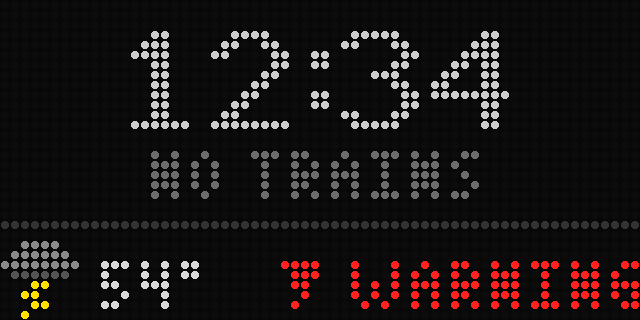
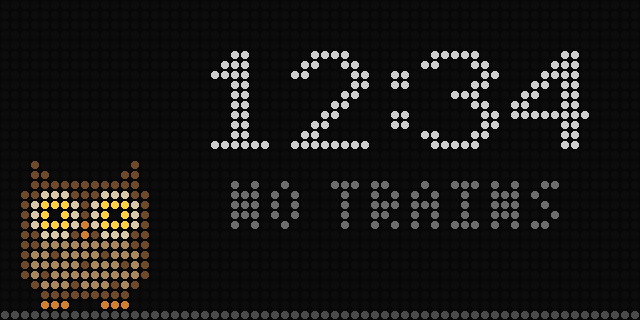
Overnight owl on the no-trains screen
The transit screen's no-trains state (overnight, NO DATA) gets a 13x15
pixel-art owl perched on a solid line at the left, with the big clock and
label centered in x 16-63. On the S3 it blinks and glances on the icon
clock; the player redraws only when its frame changes. The frozen M4 keeps
the plain clock (overnight scenarios are s3only).

Claude-Session: https://claude.ai/code/session_01G1nRWyVJHjQjigJg6skPia

diff --git a/server/board/draw.js b/server/board/draw.js
@@ -207,7 +207,7 @@
       label: '#d8d8d8', clock: '#cccccc', radarTime: '#7a7a7a', radarAmpm: '#8f8f8f', radarSub: '#666666', wxText: '#8f8f8f', amber: '#ffb000', dimAmber: '#664600', dimAmber2: '#332300',
       sch: '#6a6a6a', schDim: '#2e2e2e', schDim2: '#151515', grey: '#8f8f8f', divider: '#333333',
       head: '#808080', dimHead: '#555555', index: '#2d2d2d', white: '#ffffff', red: '#ff2020',
-      watch: '#ffd800', warnSevere: '#ff8000', warnTornado: '#ff2020', noTrains: '#6c6c6c', indicator: '#3a3a3a',
+      watch: '#ffd800', warnSevere: '#ff8000', warnTornado: '#ff2020', noTrains: '#6c6c6c', indicator: '#3a3a3a', perch: '#4a4a4a',
     };
 
     const TIME_GAP = 3;   // px between arrival times...
@@ -328,6 +328,8 @@
     const rollText = (f, font, name, text, xOf, base, color) => rollTextWith(f, font, takeRoll(name, text), text, xOf, base, color);
     const rightAt = (font, right) => (str) => right - measure(font, str) + 1;
     const centerX = (font) => (str) => Math.floor((64 - measure(font, str)) / 2);
+    // Centered in columns x0-63.
+    const centerIn = (font, x0) => (str) => x0 + Math.floor((64 - x0 - measure(font, str)) / 2);
 
     // Station name + clock on rows 1-5, flush to the screen edges, both in
     // `color` (the transit screen's dark grey, or the ticker's header grey).
@@ -524,14 +526,34 @@
       }
     }
 
+    // Overnight owl (icons.js OWL): its frame at icon-clock ms t, or the
+    // static owl (frame 0) without a clock.
+    function owlRows(t) {
+      const fr = icons.OWL.frames;
+      if (t == null) return fr[0][1];
+      const total = fr.reduce((a, [ms]) => a + ms, 0);
+      let k = ((Math.floor(t) % total) + total) % total;
+      for (const [ms, rows] of fr) { if (k < ms) return rows; k -= ms; }
+      return fr[0][1];
+    }
+
+    // No trains: the owl on a line along row 31 (or row 25 above the weather
+    // strip), at the left; the big clock and NO TRAINS centered in x 16-63.
+    // The owl blinks and glances on the S3's icon clock.
+    const OWL_X = 2, OWL_PANEL = 16;
     function drawOvernight(f, p, now) {
       const clock = clockText(now);
       const nt = p.stale ? 'NO DATA' : 'NO TRAINS';
-      const blockH = 10 + 3 + 5; // 10px digits, gap, label
-      const areaH = p.wx ? 26 : 32;
-      const top = Math.floor((areaH - blockH) / 2);
-      rollText(f, 'clock', 'big.clock', clock, centerX('clock'), top + 10, C.clock);
-      f.text('small', nt, Math.floor((64 - measure('small', nt)) / 2), top + 18, C.noTrains);
+      const bottom = p.wx ? 25 : 31;
+      f.fill(0, bottom, 64, 1, C.perch);
+      const rows = owlRows(ICON_T);
+      const oy = bottom - rows.length;
+      rows.forEach((row, j) => [...row].forEach((c, i) => {
+        if (c !== '.') f.fill(OWL_X + i, oy + j, 1, 1, icons.OWL.palette[c]);
+      }));
+      const top = p.wx ? 3 : 5;
+      rollText(f, 'clock', 'big.clock', clock, centerIn('clock', OWL_PANEL), top + 10, C.clock);
+      f.text('small', nt, centerIn('small', OWL_PANEL)(nt), top + 18, C.noTrains);
     }
 
     // Stale train data (the server hasn't reached Train Tracker for a while):

diff --git a/firmware/tests/scenarios.js b/firmware/tests/scenarios.js
@@ -137,10 +137,15 @@ async function build() {
   }
   // Overnight.
   const night = { ...payloadFrom('morse-2026-10-03-2316.json', 'MORSE'), rows: [], ticker: [] };
-  add('overnight', night, [{ screen: 'transit' }]);
-  add('overnight weather', { ...night, wx: WX }, [{ screen: 'transit' }]);
-  add('no data', { ...night, stale: 1 }, [{ screen: 'transit' }]);
-  add('no data weather', { ...night, stale: 1, wx: WX }, [{ screen: 'transit' }]);
+  // The overnight owl came after the freeze (the M4 keeps the plain clock).
+  const owl = { s3only: true };
+  add('overnight', night, [{ screen: 'transit' }], undefined, undefined, owl);
+  add('overnight weather', { ...night, wx: WX }, [{ screen: 'transit' }], undefined, undefined, owl);
+  add('no data', { ...night, stale: 1 }, [{ screen: 'transit' }], undefined, undefined, owl);
+  add('no data weather', { ...night, stale: 1, wx: WX }, [{ screen: 'transit' }], undefined, undefined, owl);
+  // The owl's frames on the icon clock (open, blink, glance; wraps around).
+  add('overnight owl frames', night, [0, 4050, 7300, 9000, 11400, 15000].map((iconT) => ({ screen: 'transit', iconT })), undefined, undefined, owl);
+  add('overnight owl frames no data', { ...night, stale: 1, wx: WX }, [4050, 7300].map((iconT) => ({ screen: 'transit', iconT })), undefined, undefined, owl);
   add('stale', { ...payloadFrom('morse-2026-10-03-2316.json', 'MORSE'), stale: 1 }, [{ screen: 'transit' }, { screen: 'ticker' }, { screen: 'ticker', page: 1, slide: 0.5 }]);
   // Rolls via explicit roll state are covered by the animator sequences below.
 
@@ -177,7 +182,7 @@ async function build() {
     add('rolls header clock width change', hdr, nums({ 'hdr.clock': '12:59' }).map((n) => ({ screen: 'transit', nums: n })));
     add('rolls ticker header clock', hdr, nums({ 'hdr.clock': '11:15' }).map((n) => ({ screen: 'ticker', nums: n })));
     const nt = { ...payloadFrom('morse-2026-10-03-2316.json', 'MORSE'), rows: [], ticker: [], wx: WX };
-    add('rolls overnight clock stays still', nt, nums({ 'night.clock': '11:15' }).map((n) => ({ screen: 'transit', nums: n })));
+    add('rolls overnight clock stays still', nt, nums({ 'night.clock': '11:15' }).map((n) => ({ screen: 'transit', nums: n })), undefined, undefined, { s3only: true });
     const [key, { bytes, loc }] = Object.entries(rf)[0];
     const rt = radar.timeOf(key.split('-')[1]);
     const ids = ['a', 'b', 'c'];

diff --git a/server/board/icons.js b/server/board/icons.js
@@ -208,6 +208,43 @@ const ICON_ANIM = {
   fog: [[1200, I.fog], [1200, shiftRows(shiftRows(I.fog, 1, 1, 1), 5, 5, 1)]],
 };
 
+// Overnight owl (transit screen, no trains; CTA calls its overnight service
+// Owl): 13 x 15, perched on a line left of the big clock. Frames as in
+// ICON_ANIM, frame 0 the static owl; it mostly sits still, blinks now and
+// then, and glances right once a cycle. No hard on/off rhythm, since a 1 s
+// blink means a tornado warning. Pupils are unlit.
+const OWL_PALETTE = {
+  B: '#6e4a2a', // body
+  b: '#a8875c', // chest
+  W: '#d8c8a8', // face disc
+  Y: '#ffd040', // eyes
+  O: '#d08030', // beak, feet
+};
+const OWL_OPEN = [
+  '.B.........B.',
+  '.BB.......BB.',
+  '.BBBBBBBBBBB.',
+  'BBWWWBBBWWWBB',
+  'BWYYYWBWYYYWB',
+  'BWY.YWBWY.YWB',
+  'BWYYYWOWYYYWB',
+  'BBWWWBOBWWWBB',
+  'BBbbbbbbbbbBB',
+  'BbbBbbbbBbbbB',
+  'BbbbbbBbbbBbB',
+  'BbBbbbbbbbbbB',
+  '.BbbbBbbbBbB.',
+  '..BBBBBBBBB..',
+  '..OOO...OOO..',
+];
+const owlEyes = (r4, r5, r6) => OWL_OPEN.map((r, j) => (j === 4 ? r4 : j === 5 ? r5 : j === 6 ? r6 : r));
+const OWL_BLINK = owlEyes('BWBBBWBWBBBWB', 'BWWWWWBWWWWWB', 'BWBBBWOWBBBWB');
+const OWL_LOOK = owlEyes('BWYYYWBWYYYWB', 'BWYY.WBWYY.WB', 'BWYYYWOWYYYWB');
+const OWL = {
+  palette: OWL_PALETTE,
+  frames: [[4000, OWL_OPEN], [150, OWL_BLINK], [3000, OWL_OPEN], [1600, OWL_LOOK], [300, OWL_OPEN], [150, OWL_BLINK], [2200, OWL_OPEN]],
+};
+
 // Frozen M4 only (firmware/boardlib/draw.py): a CTA alert's 1px "!" over the
 // row's 3x5 block at 20%, in the line color. draw.js and the S3 show the
 // label and the red alert circle instead.
@@ -241,4 +278,4 @@ function drawIcon(frame, name, x, y) {
   }));
 }
 
-module.exports = { ICONS, PALETTE, ALERT_BANG, ICON_ANIM, iconForCode, drawIcon };
+module.exports = { ICONS, PALETTE, ALERT_BANG, ICON_ANIM, OWL, iconForCode, drawIcon };

diff --git a/scripts/build-firmware-assets.js b/scripts/build-firmware-assets.js
@@ -116,6 +116,18 @@ function buildCpp() {
     }
   }
   lines.push('};', `static const int ICON_FRAMES_N = ${nFrames};`, '');
+  // Overnight owl (icons.js OWL): its palette and frames (13 x 15, row by
+  // row), with how long each shows (ms). S3 only.
+  lines.push('static const IconColor OWL_PALETTE[] = {');
+  for (const [k, v] of Object.entries(icons.OWL.palette)) lines.push(`  {'${k}', ${parseInt(v.slice(1, 3), 16)}, ${parseInt(v.slice(3, 5), 16)}, ${parseInt(v.slice(5, 7), 16)}},`);
+  lines.push('};', `static const int OWL_PALETTE_N = ${Object.keys(icons.OWL.palette).length};`);
+  const ow = icons.OWL.frames[0][1][0].length, oh = icons.OWL.frames[0][1].length;
+  lines.push(`static const int OWL_W = ${ow}, OWL_H = ${oh};`, 'struct OwlFrame { uint16_t ms; const char *px; };', 'static const OwlFrame OWL_FRAMES[] = {');
+  for (const [ms, rows] of icons.OWL.frames) {
+    if (rows.length !== oh || rows.some((r) => r.length !== ow)) throw new Error(`owl frame is not ${ow} x ${oh}`);
+    lines.push(`  {${ms}, "${rows.join('')}"},`);
+  }
+  lines.push('};', `static const int OWL_FRAMES_N = ${icons.OWL.frames.length};`, '');
   lines.push(`static const char *const ALERT_BANG[] = {${icons.ALERT_BANG.map((r) => `"${r}"`).join(', ')}};`);
   lines.push(`static const int ALERT_BANG_N = ${icons.ALERT_BANG.length};`, '');
   // G_ prefix: the ESP32's headers define MIN/MAX macros.

diff --git a/scripts/preview-fonts.js b/scripts/preview-fonts.js
@@ -179,15 +179,10 @@ function transitRows(f, rows, tops) {
   save('mock-ticker.png', f, 10);
 }
 
-// Overnight clock with the weather row.
+// Overnight: the owl beside the clock (drawn by draw.js, the reference).
 {
-  const f = new Frame();
-  const clock = '12:34';
-  const w = measure('clock', clock);
-  f.text('clock', clock, Math.floor((64 - w) / 2), 13, C.clock);
-  const nt = 'NO TRAINS';
-  f.text('small', nt, Math.floor((64 - measure('small', nt)) / 2), 20, dim(C.label, 0.5));
-  drawWeatherRow(f, 'storm', '54\u00b0', [G.FUNNEL, 'WARNING', C.red]);
+  const now = Date.UTC(2026, 9, 4, 5, 34) / 1000;
+  const f = require('../server/board/render').render({ v: 1, now, tzo: -18000, screen: 'transit', bright: 100, rows: [], ticker: [] });
   save('mock-overnight.png', f, 10);
 }
 

diff --git a/server/board/render.js b/server/board/render.js
@@ -12,7 +12,7 @@ const { TZ } = require('./time');
 
 const draw = create({
   fonts: packFonts(),
-  icons: { ICONS: icons.ICONS, PALETTE: icons.PALETTE, ALERT_BANG: icons.ALERT_BANG, ICON_ANIM: icons.ICON_ANIM },
+  icons: { ICONS: icons.ICONS, PALETTE: icons.PALETTE, ALERT_BANG: icons.ALERT_BANG, ICON_ANIM: icons.ICON_ANIM, OWL: icons.OWL },
   glyphs,
   tz: TZ,
   makeFrame: () => new Frame(),
@@ -22,7 +22,7 @@ const draw = create({
 function assets() {
   return {
     fonts: packFonts(),
-    icons: { ICONS: icons.ICONS, PALETTE: icons.PALETTE, ALERT_BANG: icons.ALERT_BANG, ICON_ANIM: icons.ICON_ANIM },
+    icons: { ICONS: icons.ICONS, PALETTE: icons.PALETTE, ALERT_BANG: icons.ALERT_BANG, ICON_ANIM: icons.ICON_ANIM, OWL: icons.OWL },
     glyphs,
     tz: TZ,
   };

diff --git a/server/board/sim.html b/server/board/sim.html
@@ -285,7 +285,7 @@
     // Transit: rolls, fades, and slides come from the animator.
     const view = transitAnim.step(p, n, t);
     const blink = Math.floor(t / D.BLINK_MS) % 2 === 1;
-    paintTransit(rolled('transit', t, { full, o: { now: n, blink, view } }));
+    paintTransit(rolled('transit', t, { full, o: { now: n, blink, view, iconT: t } }));
 
     // Ticker: hold each page, then slide up to the next, looping.
     const pages = D.tickerPages(p, n);

diff --git a/firmware-s3/ctaboard/src/draw.cpp b/firmware-s3/ctaboard/src/draw.cpp
@@ -485,7 +485,8 @@ static bool same_shape(Font font, const ustr &a, const ustr &b) {
 // `pos`, or centered on the panel (draw.js xOf: () => x, rightAt, centerX).
 enum Align { LEFT, RIGHT, CENTER };
 static int align_x(Font font, const ustr &s, Align a, int pos) {
-  return a == LEFT ? pos : a == RIGHT ? pos - measure(font, s) + 1 : (int)fdiv(64 - measure(font, s), 2);
+  // CENTER: centered in columns pos-63 (pos 0: the whole panel).
+  return a == LEFT ? pos : a == RIGHT ? pos - measure(font, s) + 1 : pos + (int)fdiv(64 - pos - measure(font, s), 2);
 }
 
 // Text that rolls when it changes. Pixel-identical to rollTextWith() in
@@ -829,14 +830,45 @@ static void draw_view_row(Frame &f, const ViewRow &row, bool lnc) {
   }
 }
 
+// Overnight owl (draw.js owlRows): its frame at icon-clock ms t, or the
+// static owl (frame 0) without a clock.
+int owl_frame(std::optional<double> t) {
+  if (!t) return 0;
+  long long total = 0;
+  for (int i = 0; i < assets::OWL_FRAMES_N; i++) total += assets::OWL_FRAMES[i].ms;
+  long long k = fmod_floor((long long)floor(*t), total);
+  for (int i = 0; i < assets::OWL_FRAMES_N; i++) {
+    if (k < assets::OWL_FRAMES[i].ms) return i;
+    k -= assets::OWL_FRAMES[i].ms;
+  }
+  return 0;
+}
+
+static RGB owl_color(char code) {
+  for (int i = 0; i < assets::OWL_PALETTE_N; i++)
+    if (assets::OWL_PALETTE[i].code == code)
+      return RGB{assets::OWL_PALETTE[i].r, assets::OWL_PALETTE[i].g, assets::OWL_PALETTE[i].b};
+  return RGB{};
+}
+
+// No trains (draw.js drawOvernight): the owl on a line at the left, the
+// big clock and NO TRAINS centered in x 16-63.
+static const int OWL_X = 2, OWL_PANEL = 16;
 static void draw_overnight(Frame &f, const View &view, double now) {
   ustr clock = clock_text(now, view.tzo);
   ustr nt = view.stale ? U"NO DATA" : U"NO TRAINS";
-  int block_h = 10 + 3 + 5;
-  int area_h = view.wx ? 26 : 32;
-  int top = (int)fdiv(area_h - block_h, 2);
-  roll_named(f, FONT_CLOCK, "big.clock", clock, CENTER, 0, top + 10, C::clock);
-  f.text(FONT_SMALL, nt, (int)fdiv(64 - measure(FONT_SMALL, nt), 2), top + 18, C::noTrains);
+  int bottom = view.wx ? 25 : 31;
+  f.fill(0, bottom, 64, 1, C::perch);
+  const char *px = assets::OWL_FRAMES[owl_frame(g_icon_t)].px;
+  int oy = bottom - assets::OWL_H;
+  for (int j = 0; j < assets::OWL_H; j++)
+    for (int i = 0; i < assets::OWL_W; i++) {
+      char c = px[j * assets::OWL_W + i];
+      if (c != '.') f.fill(OWL_X + i, oy + j, 1, 1, owl_color(c));
+    }
+  int top = view.wx ? 3 : 5;
+  roll_named(f, FONT_CLOCK, "big.clock", clock, CENTER, OWL_PANEL, top + 10, C::clock);
+  f.text(FONT_SMALL, nt, align_x(FONT_SMALL, nt, CENTER, OWL_PANEL), top + 18, C::noTrains);
 }
 
 static void draw_stale(Frame &f, const Value &p) {

diff --git a/firmware-s3/ctaboard/src/assets.h b/firmware-s3/ctaboard/src/assets.h
@@ -484,6 +484,27 @@ static const IconFrame ICON_FRAMES[] = {
 };
 static const int ICON_FRAMES_N = 32;
 
+static const IconColor OWL_PALETTE[] = {
+  {'B', 110, 74, 42},
+  {'b', 168, 135, 92},
+  {'W', 216, 200, 168},
+  {'Y', 255, 208, 64},
+  {'O', 208, 128, 48},
+};
+static const int OWL_PALETTE_N = 5;
+static const int OWL_W = 13, OWL_H = 15;
+struct OwlFrame { uint16_t ms; const char *px; };
+static const OwlFrame OWL_FRAMES[] = {
+  {4000, ".B.........B..BB.......BB..BBBBBBBBBBB.BBWWWBBBWWWBBBWYYYWBWYYYWBBWY.YWBWY.YWBBWYYYWOWYYYWBBBWWWBOBWWWBBBBbbbbbbbbbBBBbbBbbbbBbbbBBbbbbbBbbbBbBBbBbbbbbbbbbB.BbbbBbbbBbB...BBBBBBBBB....OOO...OOO.."},
+  {150, ".B.........B..BB.......BB..BBBBBBBBBBB.BBWWWBBBWWWBBBWBBBWBWBBBWBBWWWWWBWWWWWBBWBBBWOWBBBWBBBWWWBOBWWWBBBBbbbbbbbbbBBBbbBbbbbBbbbBBbbbbbBbbbBbBBbBbbbbbbbbbB.BbbbBbbbBbB...BBBBBBBBB....OOO...OOO.."},
+  {3000, ".B.........B..BB.......BB..BBBBBBBBBBB.BBWWWBBBWWWBBBWYYYWBWYYYWBBWY.YWBWY.YWBBWYYYWOWYYYWBBBWWWBOBWWWBBBBbbbbbbbbbBBBbbBbbbbBbbbBBbbbbbBbbbBbBBbBbbbbbbbbbB.BbbbBbbbBbB...BBBBBBBBB....OOO...OOO.."},
+  {1600, ".B.........B..BB.......BB..BBBBBBBBBBB.BBWWWBBBWWWBBBWYYYWBWYYYWBBWYY.WBWYY.WBBWYYYWOWYYYWBBBWWWBOBWWWBBBBbbbbbbbbbBBBbbBbbbbBbbbBBbbbbbBbbbBbBBbBbbbbbbbbbB.BbbbBbbbBbB...BBBBBBBBB....OOO...OOO.."},
+  {300, ".B.........B..BB.......BB..BBBBBBBBBBB.BBWWWBBBWWWBBBWYYYWBWYYYWBBWY.YWBWY.YWBBWYYYWOWYYYWBBBWWWBOBWWWBBBBbbbbbbbbbBBBbbBbbbbBbbbBBbbbbbBbbbBbBBbBbbbbbbbbbB.BbbbBbbbBbB...BBBBBBBBB....OOO...OOO.."},
+  {150, ".B.........B..BB.......BB..BBBBBBBBBBB.BBWWWBBBWWWBBBWBBBWBWBBBWBBWWWWWBWWWWWBBWBBBWOWBBBWBBBWWWBOBWWWBBBBbbbbbbbbbBBBbbBbbbbBbbbBBbbbbbBbbbBbBBbBbbbbbbbbbB.BbbbBbbbBbB...BBBBBBBBB....OOO...OOO.."},
+  {2200, ".B.........B..BB.......BB..BBBBBBBBBBB.BBWWWBBBWWWBBBWYYYWBWYYYWBBWY.YWBWY.YWBBWYYYWOWYYYWBBBWWWBOBWWWBBBBbbbbbbbbbBBBbbBbbbbBbbbBBbbbbbBbbbBbBBbBbbbbbbbbbB.BbbbBbbbBbB...BBBBBBBBB....OOO...OOO.."},
+};
+static const int OWL_FRAMES_N = 7;
+
 static const char *const ALERT_BANG[] = {".#.", ".#.", ".#.", "...", ".#."};
 static const int ALERT_BANG_N = 5;
 

diff --git a/firmware-s3/tests/app_test.cpp b/firmware-s3/tests/app_test.cpp
@@ -1107,6 +1107,20 @@ static void test_idle_screens_redraw_only_when_something_changes() {
   CHECK(per_s < 2 && per_s > 0.9, "%f per s", per_s);
 }
 
+static void test_overnight_owl_redraws_when_it_blinks() {
+  // No trains: the owl's frames (blinks, a glance) add redraws to the
+  // once-a-second idle rate, without drawing every frame.
+  Rig r;
+  r.server.rows_fn = [](long long) { return std::string("[]"); };
+  r.board->connect();
+  r.run_for(5000);
+  CHECK(r.board->player.night, "");
+  long start = r.display.frames;
+  r.run_for(5 * 60 * 1000);
+  double per_s = (r.display.frames - start) / 300.0;
+  CHECK(per_s > 1.5 && per_s < 3, "%f per s", per_s);
+}
+
 static void test_auto_visits_the_radar_on_a_timer_and_prefetches_frames() {
   Rig r;
   r.server.radar_on = true;
@@ -1623,6 +1637,7 @@ int main() {
       T_(test_clock_screen_fetches_its_cloud_strip_once_and_redraws_twenty_times_a_second),
       T_(test_cloud_strips_only_on_the_clock_screen),
       T_(test_clock_screen_draws_the_skyline),
+      T_(test_overnight_owl_redraws_when_it_blinks),
       T_(test_other_screens_keep_the_dim_color_floor),
       T_(test_settings_change_shows_up_fast),
       T_(test_radar_frames_only_on_the_radar_screen_and_once_each),

diff --git a/firmware-s3/ctaboard/src/draw.h b/firmware-s3/ctaboard/src/draw.h
@@ -99,7 +99,7 @@ constexpr RGB label = hexc(0xd8d8d8), clock = hexc(0xcccccc), radarTime = hexc(0
               head = hexc(0x808080), dimHead = hexc(0x555555), index = hexc(0x2d2d2d),
               white = hexc(0xffffff), red = hexc(0xff2020), watch = hexc(0xffd800),
               warnSevere = hexc(0xff8000), warnTornado = hexc(0xff2020), noTrains = hexc(0x6c6c6c),
-              indicator = hexc(0x3a3a3a);
+              indicator = hexc(0x3a3a3a), perch = hexc(0x4a4a4a);
 }
 RGB line_color(const std::string &ln);
 RGB scale_color(RGB c, double k);
@@ -273,6 +273,8 @@ struct RenderOpts {
 const double SCREEN_SLIDE_MS = 450;
 const int SLIDE_GAP = 4;
 int slide_offset(double t);  // px the new screen has come in, 0..64 + SLIDE_GAP
+// Overnight owl: its frame (assets::OWL_FRAMES) at icon-clock ms t; 0 without one.
+int owl_frame(std::optional<double> t);
 void slide_frames(const uint8_t *from, Frame &f, int d, int dir);
 
 Frame &render(const Value &p, Frame &f, const RenderOpts &o);

diff --git a/firmware-s3/ctaboard/src/player.cpp b/firmware-s3/ctaboard/src/player.cpp
@@ -266,9 +266,11 @@ void Player::draw(draw::Frame &frame, double ms, long long now) {
     return;
   }
   draw::View view = anim.step(p, (double)now, ms);
+  night = view.rows.empty();
   o.screen = "transit";
   o.view = &view;
   o.blink = blink_on(ms);
+  o.icon_t = ms;  // the overnight owl blinks on the icon clock
   draw::render(p, frame, o);
 }
 
@@ -357,6 +359,8 @@ std::optional<screen::FrameKey> Player::frame_key(double ms, long long now) {
       k.v[5] = (long long)clouds.size();
       break;
     case Screen::Transit:
+      // The overnight owl: redraw when its frame changes.
+      if (night) k.v[4] = draw::owl_frame(ms);
       break;
   }
   return k;
